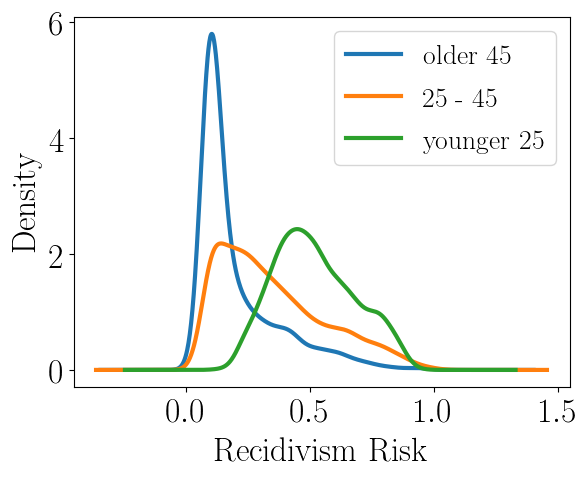
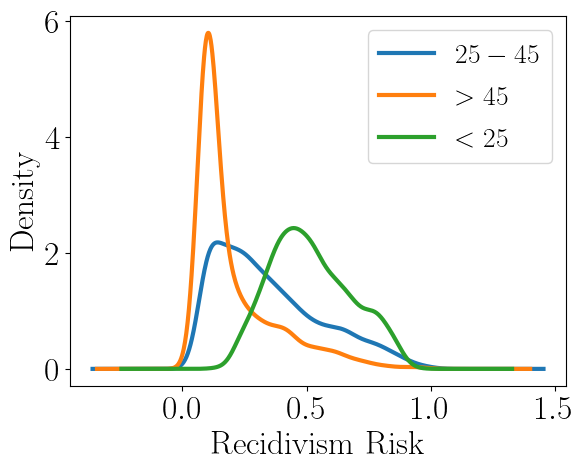
addressed Chato's comments on experiments

diff --git a/paper/06-experiments.tex b/paper/06-experiments.tex
@@ -49,7 +49,7 @@ In this section, we consider several reference datasets for evaluating the multi
 	\label{fig:dataset:compas:race}]
 	{\includegraphics[width=.48\textwidth]{pics/compas_race_kde.png}}\hfill
 	\subfloat
-	[Score distribution by age in the COMPAS dataset \inote{older THAN 45 or $>45$, younger THAN 25 or $<25$}. We see that age is a strong predictor of recidivism risk which suggests that the COMPAS questionnaire injects a bias against younger people into the data. Experiment D2.
+	[Score distribution by age in the COMPAS dataset. We see that age is a strong predictor of recidivism risk which suggests that the COMPAS questionnaire injects a bias against younger people into the data. Experiment D2.
 	\label{fig:dataset:compas:age}]
 	{\includegraphics[width=.48\textwidth]{pics/compas_age_kde.png}}\hfill
 	\subfloat
@@ -63,8 +63,6 @@ In this section, we consider several reference datasets for evaluating the multi
 \end{figure}
 
 \subsection{Datasets}\label{sec:experiments-datasets}
-
-\note[ChaTo]{I'm uncomfortable with using ``quality'' -- throughout the paper, I would refer to this as simply ``score''.}
 
 Table~\ref{tbl:datasets} summarizes the datasets used in our experiments.
 %
@@ -80,7 +78,7 @@ We remark that the choice of protected group is not arbitrary: it is determined 
 %
 Similarly, the minimum proportion can always be provided by regulation or voluntary commitments; in the absence of this minimum proportion one can use the fraction of people who are members of that group within the entire population.
 %
-An experiment consists of generating a \inote{re-?}ranking using multinomial \algoFAIR and then comparing it with baseline rankings according to the metrics introduced in the next section.
+An experiment consists of generating a ranking from the set of candidates using multinomial \algoFAIR and then comparing it with baseline rankings according to the metrics introduced in the next section.
 %
 We use the three publicly-available datasets: COMPAS~\cite{angwin_2016_machine}, German Credit~\cite{lichman_2013_uci}) and LSAC~\cite{wightman1998lsac}.
 
@@ -192,101 +190,114 @@ We show that large increases in average group exposure can be achieved with rela
 
 \subsection{Results}\label{sec:experiments-results}
 %
-\begin{table}[b!]
-	\resizebox{1.02\columnwidth}{!}{%
-		\centering\begin{tabular}{lccccc}\toprule
-				   & Exposure &   total    & Ordering     & Rank & Selection \\
-			Method & gain per group & NDCG loss  & utility loss & drop & utility loss \\
-
-			\midrule
-			\multicolumn{6}{c}{D1 -- COMPAS, k=1500, race (1 prot.)} \\
-			\midrule
-			\algoFAIR $p_{\text{eq}}$ & $[-0.27, 0.27]$ & $1.915\cdot10^{-7}$ & $[0.0066, 0]$ & $[15, 0]$ & $[0, 0]$ \\
-			\algoFAIR $p_{\text{stat}}$ & $[-19.16, 19.16]$ & 0.0039 & $[0.0687, 0]$ & $[387, 0]$ & $[0.0621,0]$ \\
-			\citeauthor{zehlike2020matching} & $[-28.6, 28.6]$  & 0.0055 & $[0.0738, 0]$ & $[620, 288]$ & $[0.0702, 0]$ \\
-
-			\midrule
-			\multicolumn{6}{c}{D2 -- COMPAS, k=500, age (2 prot.)} \\
-			\midrule
-			\algoFAIR $p_{\text{eq}}$ & $[-13.77, -7.10, \textcolor{red}{20.87}]$ & 0.0580 & $[0.23, 0,23, 0.00]$ & $[182, 127, 0]$ & $[0.23, 0.23, 0.00]$ \\
-			\algoFAIR $p_{\text{stat}}$ & $[-20.86, 6.75, \textcolor{red}{14.11}]$ & 0.0354 & $[0.21, 0.21, 0.00]$ & $[266, 3, 0]$ & $[0.21, 0.21, 0.00]$ \\
-			\citeauthor{zehlike2020matching} & $[-38.48, 18.11, \textcolor{red}{20.49}]$ & 0.0521 & $[0.19, 0.18 ,0.00]$ & $[159, 280, 0]$ & $[0.19, 0.17, 0,00]$ \\ %\cline{2-7}
-
-			\midrule
-			\multicolumn{6}{c}{D3 -- COMPAS, k=200, three worst off (3 prot.)} \\
-			\midrule
-			\algoFAIR  $p_{\text{eq}}$ & $[-21.87, \textcolor{red}{7.29}, \textcolor{red}{7.30}, \textcolor{red}{7.27}]$ & 0.1526 & $[0.42, 0.14, 0.00, 0.22]$ & $[134, 0, 0, 0]$ & $[0.42, 0.13, 0.00, 0.22]$ \\
-			\algoFAIR  $p_{\text{stat}}$ & $[-3.62, \textcolor{red}{0.60}, \textcolor{red}{0.29}, \textcolor{red}{2.73}]$ & 0.0155 & $[0.17, 0.03,0.00, 0.02]$ & $[24, 0,0,0]$ & $[0.17, 0.00,0.00, 0.02] $  \\
-			\citeauthor{zehlike2020matching} &  $[-11.83, \pm 0, \pm 0, \textcolor{red}{11.83}]$ & 0.0562 & $[0.19, \pm 0, \pm 0, 0.00] $ & $[178, \pm 0, \pm 0, 0]$ & $[0.19, \pm 0, \pm 0, 0.00]$   \\
-
-			\midrule
-			\multicolumn{6}{c}{D4 -- German credit, k=50, sex \& age (5 prot.)} \\
-			\midrule
-			\algoFAIR $p_{\text{eq}}$ &  $[-4.46, 0.08, 0.50, $ & 0.1698 & $[3.51, 2.70, 3.42, $ & $[28, 4, 7, 1, 0, 0]$ & $[3.05, 1.82, 1.34, $\\
-			& $1.49, 1.26, 1.12]$ & &  $ 0.55, 1.18, 1.76]$& & $0.00, 0.18, 0.33]$  \\
-			\algoFAIR $p_{\text{stat}}$ &  $[-0.83, 0.01, 0.23, $& 0.0185 & $[1.84, 1.56, 0.45, $ & $[5, 3, 1, 0, 0, 5]$ & $[1.89, 1.56, 1.23,$  \\
-			& $0.38, 0.20, 0.01]$  & & $0.00, 0.33, 1.28]$ & & $ 0.00, 1.18, 1.54]$\\
-			\citeauthor{zehlike2020matching} &  $[1.15, 0.22, -0.91, $ & 0.0471 & $[0.50, 1.41, 2.06,$ & $[2, 2, 31, 22, 0, 0]$ & $[0.34, 0.00, 1.93, $ \\
-			& $-0.71, 0.00, 0.25]$ &  & $ 1.75, 0.27, 0.00]$ & & $2.20, 0.00, 0.00]$\\
-
-			\midrule
-			\multicolumn{6}{c}{D5 -- LSAT, k=200, sex \& race (3 prot.)} \\
-			\midrule
-			\algoFAIR $p_{\text{eq}}$ & $[-15.76, -1.48, 8.41, 8.82]$ & 0.0157 & $[4,4,1,0]$ & $[145, 28, 0, 0]$ & $[4, 4, 1, 0`]$  \\
-			\algoFAIR $p_{\text{stat}}$ & $[-11.12, 3.87, 2.80, 4,44]$ & 0.0026 & $[2, 2, 1, 0]$ & $[100, 15, 0, 0]$ & $[2, 2, 1, 0]$  \\
-			\citeauthor{zehlike2020matching} &  $[-14.63, 4.29, 3.88, 6.46]$ & 0.0049 & $[2, 1, 1, 0]$ & $[149, 26, 0, 0]$ & $[2, 1, 0, 0]$  \\
-
-			\bottomrule
-		\end{tabular}
-	}
-	\caption{Experimental results, expressed in terms of changes of exposure and utility with respect to colorblind results.
+\begin{table}[t!]
+	\caption{Experimental results, showing changes in the average group exposure and ranking utility in terms of NDCG. 
 		%
 		%Colorblind results are not shown because they are always zero.
 		%
-		All measures are presented per group except for the loss of NDCG which is calculated for the entire ranking.
+		Exposure is presented per group while the loss of NDCG is calculated for the entire ranking.
+		%
+		The protected groups are in the same order as in Table~\ref{tbl:datasets}.
+		%
+		%With $p_{\text{stat}}$ we denote a vector $p_G$ that contains the share of a group as its $p$-value, hence the produced ranking should obtain statistical parity.
+		%
+		%With $p_{\text{equal}}$ we denote a vector $p_G$ that contains the same value for all $p$.
+		%
+		For exposure gain we report numbers with an asterisk, if a group was not among the top-$k$ in the colorblind ranking, but is now.
+		%
+		These numbers constitute the \emph{absolute} exposure value a group receives after re-ranking.
+		%
+		We write $\pm 0$, if the group appears neither in the colorblind, nor in the fairly re-ranked top-$k$.
+		\label{tbl:results-part-one}
+	}
+	\vspace{-5mm}
+	\centering\begin{tabular}{llccc}\toprule
+   					&			& Exposure gain 	& Exposure gain		&   total   \\
+		Experiment	& Method 	& per prot. group 	& non-prot. group 	& NDCG loss  \\
+
+		\midrule
+		D1 -- COMPAS,	& \algoFAIR $p_{\text{eq}}$ 	& 0.27 	& -0.27 	& $1.915\cdot10^{-7}$ \\
+		k=1500, 		& \algoFAIR $p_{\text{stat}}$	& 19.16 & -19.16 	& 0.0039 \\
+		race (1 prot.)	& CFA$\theta$ 					& 28.60 & -28.60	& 0.0055 \\
+
+		\midrule
+		D2 -- COMPAS, 	& \algoFAIR $p_{\text{eq}}$ 	& $[-7.10, 20.87^*]$ 	& -13.77 	& 0.0580 \\
+		k=500, 			& \algoFAIR $p_{\text{stat}}$ 	& $[6.75, 14.11^*]$ 	& -20.86 	& 0.0354 \\
+		age (2 prot.)	& CFA$\theta$ 					& $[18.11, 20.49^*]$ 	& -38.48	& 0.0521 \\ %\cline{2-7}
+
+		\midrule
+		D3 -- COMPAS, 			& \algoFAIR  $p_{\text{eq}}$ 	& $[7.29^*, 7.30^*, 7.27^*]$ & -21.87	& 0.1526 \\
+		k=200, 					& \algoFAIR  $p_{\text{stat}}$ 	& $[0.60^*, 0.29^*, 2.73^*]$ & -3.62	& 0.0155 \\
+		3 worst off (3 prot.) 	& CFA$\theta$ 					& $[\pm 0, \pm 0, 11.83^*]$	 & -11.83	& 0.0562 \\
+
+		\midrule
+		D4 -- German credit, 	& \algoFAIR $p_{\text{eq}}$ 	&  $[0.08, 0.50, 1.49, 1.26, 1.12]$ 	& -4.46 	& 0.1698 \\
+		k=50,  					& \algoFAIR $p_{\text{stat}}$ 	&  $[0.01, 0.23, 0.38, 0.20, 0.01]$		& -0.83 	& 0.0185 \\
+		age (5 prot.) 			& CFA$\theta$ 					&  $[0.22, -0.91, -0.71, 0.00, 0.25]$ 	& 1.15 		& 0.0471 \\
+
+		\midrule
+		D5 -- LSAT, 			& \algoFAIR $p_{\text{eq}}$ 	& $[-1.48, 8.41, 8.82]$ & -15.76 & 0.0157 \\
+		k=200, 					& \algoFAIR $p_{\text{stat}}$ 	& $[3.87, 2.80, 4,44]$ 	& -11.12 & 0.0026 \\
+		sex \& race (3 prot.) 	& CFA$\theta$ 					& $[4.29, 3.88, 6.46]$ 	& -14.63 & 0.0049 \\
+
+		\bottomrule
+	\end{tabular}
+	\vspace{-5mm}
+\end{table}
+%
+\begin{table}[t!]
+	\caption{Experimental results, changes of individual utility loss respect to colorblind results.
+		%
+		%Colorblind results are not shown because they are always zero.
+		%
+		All measures are presented per group.
 		%
 		Groups are in the same order as in Table~\ref{tbl:datasets}, and the first value is always for the non-protected group.
 		%
-		With $p_{\text{stat}}$ we denote a vector $p_G$ that contains the share of a group as its $p$-value, hence the produced ranking should obtain statistical parity.
+		%With $p_{\text{stat}}$ we denote a vector $p_G$ that contains the share of a group as its $p$-value, hence the produced ranking should obtain statistical parity.
 		%
-		With $p_{\text{equal}}$ we denote a vector $p_G$ that contains the same value for all $p$.
+		%With $p_{\text{equal}}$ we denote a vector $p_G$ that contains the same value for all $p$.
 		%
-		For exposure gain we report numbers in red, if a group was not among the top-$k$ in the colorblind ranking, but is now.
-		%
-		These numbers constitute the absolute exposure value a group receives after re-ranking.
-		%
-		We write $\pm 0$, if the group appears neither in the colorblind, nor in the fairly re-ranked top-$k$.
-		%
-		We observe that \algoFAIR $p_{\text{stat}}$ and the baseline CFA$\theta$ have comparable results for experiments D1 and D5.
-		%
-		However, we also see that CFA$\theta$ seems to not handle ties well in experiments D2 and D3 (see textual explanation for details).
-		%
-		For experiment D4 we see an interesting property of \algoFAIR: the youngest and oldest males experience a high rank drop (31 and 22) with CFA$\theta$ compared to \algoFAIR $p_{\text{stat}}$, even though they belong to the protected groups.
-		%
-		This is because they receive exposure values higher than average in the $cb|_k$, i.e. these two groups have the best scores.
-		%
-		CFA$\theta$ moves \emph{all} score distributions towards the barycenter and thus, removes the advantage that the protected groups have in this data set.
-		%
-		\algoFAIR, in contrast, ranks candidates based on their scores, as soon as the ranked group fairness conditions are met for each group.
-		%
-		As such, a protected group can only lose exposure for another protected group, but never for the non-protected one.
+		We write $\pm 0$, if the group appears neither in the colorblind, nor in the re-ranked top-$k$.
 	}
-	\vspace{-3mm}
-	\label{tbl:results}
+	\vspace{-4mm}
+	\label{tbl:results-part-two}
+	\resizebox{1.01\columnwidth}{!}{%
+	\centering\begin{tabular}{llccc}\toprule
+					& 			& Ordering     & Rank & Selection \\
+		Experiment 	& Method 	& utility loss & drop & utility loss \\
+		
+		\midrule
+		D1 -- COMPAS,	& \algoFAIR $p_{\text{eq}}$ 	& $[0.0066, 0]$ & $[15, 0]$ 	& $[0, 0]$ \\
+		k=1500, 		& \algoFAIR $p_{\text{stat}}$ 	& $[0.0687, 0]$ & $[387, 0]$ 	& $[0.0621,0]$ \\
+		race (1 prot.)	& CFA$\theta$ 					& $[0.0738, 0]$ & $[620, 288]$ 	& $[0.0702, 0]$ \\
+		
+		\midrule
+		D2 -- COMPAS, 	& \algoFAIR $p_{\text{eq}}$ 	& $[0.23, 0,23, 0.00]$ & $[182, 127, 0]$ 	& $[0.23, 0.23, 0.00]$ \\
+		k=500, 			& \algoFAIR $p_{\text{stat}}$ 	& $[0.21, 0.21, 0.00]$ & $[266, 3, 0]$ 		& $[0.21, 0.21, 0.00]$ \\
+		age (2 prot.)	& CFA$\theta$ 					& $[0.19, 0.18 ,0.00]$ & $[159, 280, 0]$ 	& $[0.19, 0.17, 0,00]$ \\ %\cline{2-7}
+		
+		\midrule
+		D3 -- COMPAS, 			& \algoFAIR  $p_{\text{eq}}$ 	& $[0.42, 0.14, 0.00, 0.22]$ 	& $[134, 0, 0, 0]$ 		& $[0.42, 0.13, 0.00, 0.22]$ \\
+		k=200, 					& \algoFAIR  $p_{\text{stat}}$ 	& $[0.17, 0.03,0.00, 0.02]$ 	& $[24, 0,0,0]$ 				& $[0.17, 0.00,0.00, 0.02] $  \\
+		3 worst off (3 prot.) 	& CFA$\theta$ 					& $[0.19, \pm 0, \pm 0, 0.00] $ & $[178, \pm 0, \pm 0, 0]$ 	& $[0.19, \pm 0, \pm 0, 0.00]$   \\
+		
+		\midrule
+		D4 -- German credit, 	& \algoFAIR $p_{\text{eq}}$ 	&  $[3.51, 2.70, 3.42, 0.55, 1.18, 1.76]$ 	& $[28, 4, 7, 1, 0, 0]$ 	& $[3.05, 1.82, 1.34, 0.00, 0.18, 0.33]$ \\
+		k=50,  					& \algoFAIR $p_{\text{stat}}$ & $[1.84, 1.56, 0.45, 0.00, 0.33, 1.28]$ & $[5, 3, 1, 0, 0, 5]$ & $[1.89, 1.56, 1.23, 0.00, 1.18, 1.54]$  \\
+		age (5 prot.) 			& CFA$\theta$ &  $[0.50, 1.41, 2.06, 1.75, 0.27, 0.00]$ & $[2, 2, 31, 22, 0, 0]$ & $[0.34, 0.00, 1.93, 2.20, 0.00, 0.00]$ \\
+		
+		\midrule
+		D5 -- LSAT, 			& \algoFAIR $p_{\text{eq}}$ 	& $[4,4,1,0]$ 		& $[145, 28, 0, 0]$ & $[4, 4, 1, 0`]$  \\
+		k=200, 					& \algoFAIR $p_{\text{stat}}$ 	& $[2, 2, 1, 0]$ 	& $[100, 15, 0, 0]$ & $[2, 2, 1, 0]$  \\
+		sex \& race (3 prot.) 	& CFA$\theta$ 					& $[2, 1, 1, 0]$ 	& $[149, 26, 0, 0]$ & $[2, 1, 0, 0]$  \\
+		
+		\bottomrule
+	\end{tabular}
+	}
+	\vspace{-5mm}
 \end{table}
-%
-Table~\ref{tbl:results} summarizes the results.
-\note[ChaTo]{I would use ``CFA$\theta$'' instead of Zehlike et al. in the table.
-
-Exposure gain per group: I would split into two columns. First, ``Exposure change (non-protected group)'', ``Exposure change (protected groups)''
-
-Red color seems to indicate something is wrong while the opposite is true,  perhaps you can underline those values or add an asterisk to them (something you can see in black and white).
-
-The discussion about the table is split between the caption of the table and the main text. I think the caption of the table should be just to explain what each column is. The commentary and observations should appear in the main text.
-
-As an idea, perhaps the table could be separated in two parts: first a table only with method, exposure change, NDCG change; then another table with method, ordering utility, rank drop, selection utility. The discussion following these two tables could be more easy to follow, perhaps.
-
-}
+Table~\ref{tbl:results-part-one} and~\ref{tbl:results-part-two} summarize the results.
 %
 We report on the result for \algoFAIR using $p_G$ in two different settings, namely as a statistical parity vector i.e. the $p$-values for each group correspond to their respective proportions in the dataset ($p_{\text{stat}}$), and as a vector with all $p$-values being equal ($p_{\text{eq}}$).
 %
@@ -306,11 +317,11 @@ While the former yields better numbers in terms of utility, with the latter the 
 
 Nonetheless, we found a very important drawback in the results of CFA$\theta$ in experiment D2: \citet{zehlike2020matching} does not guarantee in-group monotonicity, which we observed in our experiments.
 %
-Consider, for example, experiment D2, where we observe a maximum rank drop for the non-protected group of 159 for CFA$\theta$, which at first glance is less than \algoFAIR with $p_{\text{stat}}$ (266).
+Consider Table~\ref{tbl:results-part-two} where we observe a maximum rank drop for the non-protected group of 159 for CFA$\theta$, which at first glance is less than \algoFAIR with $p_{\text{stat}}$ (266).
 %
 However, we found the following problems when closely investigating the result: the candidate that experienced the drop in 159 ranks was the \emph{only non-protected} candidate left in the top-500 after applying CFA$\theta$, and their original ranking position was 341 (now 500).
 %
-It means that the originally best candidate from the non-protected group (rank 3 in $cb|_k$) was ranked out of the top-500 by CFA$\theta$, hence the in-group ordering is not preserved.
+This means that the originally best candidate from the non-protected group (rank 3 in $cb|_k$) was ranked out of the top-500 by CFA$\theta$, hence the in-group ordering is not preserved.
 %
 We suspect that this is because the method can not handle ties well.
 %
@@ -346,14 +357,25 @@ CFA$\theta$ moves \emph{all} score distributions towards the barycenter and thus
 %
 As such, a protected group can only lose exposure for another protected group, but never for the non-protected one.
 
-Importantly, \algoFAIR allows to create rankings for user-defined values of $p$ and in particular for values beyond statistical parity, something that cannot be done directly with the baseline (\citet{zehlike2020matching} allows at maximum statistical parity in the result ranking when setting $\theta=1$, i.e. to the maximum value).
-
-\note[ChaTo]{This part perhaps requires a subsection header or a preamble indicating why you want to introduce this new figure.
-
-Again, perhaps in the caption of Figure~\ref{fig:results-moving-p} given that the caption is long, I would move the discussion/commentary on the results to the main text, and leave in the caption just the indication of what the number mean.}
-Figure~\ref{fig:results-moving-p} shows results when varying $p_1$ and $p_2$ in data set D2 (COMPAS, the protected groups are people of age 25--45 ($p_1$) and people under 25 years ($p_2$).
+\spara{A wide range of possibilities to set $p_G$.}
 %
-This means that \algoFAIR allows a wide range of positive actions, for instance, granting reintegration programs to people with promising COMPAS ratings, with a preference towards younger offenders.
+An important advantage of \algoFAIR is, that it allows to create rankings for user-defined values of $p$ and in particular for values beyond statistical parity, something that cannot be done directly with the baseline (\citet{zehlike2020matching} allows at maximum statistical parity in the result ranking when setting $\theta=1$, i.e. to the maximum value).
+
+Figure~\ref{fig:results-moving-p} shows results when varying $p_1$ and $p_2$ in data set D2: COMPAS, the protected groups are people of age 25--45 ($p_1$) and people under 25 years ($p_2$).
+%
+In Fig.~\ref{fig:experiments:compasAge:expGain:groupNP} we see that the non-protected group loses exposure under all settings, as expected.
+%
+At the same time however NDCG loss is minor and under many settings not increasing beyond a statistical significance level of 0.05\% (Fig.~\ref{fig:experiments:compasAge:ndcgloss}).
+%
+Comparing Figures~\ref{fig:experiments:compasAge:expGain:group1} and~\ref{fig:experiments:compasAge:expGain:group2} we see that in general, if one protected group scores significantly better in the colorblind ranking (group ``25 -- 45'' in Fig.~\ref{fig:dataset:compas:age}) than another one (group ``younger 25'' in Fig.~\ref{fig:dataset:compas:age}), the first may be ranked down to make room for the second.
+%
+Figure~\ref{fig:experiments:compasAge:expGain:group1} shows that the middle-aged group in the COMPAS data set loses exposure to the young group unless $p_1$ is set high enough.
+%
+However even if $p_1$ is set low it still ensures that candidates from the middle-aged group show in the ranking, thus always losing less exposure than the non-protected group (compare Fig.~\ref{fig:experiments:compasAge:expGain:groupNP} and~\ref{fig:experiments:compasAge:expGain:group1}).
+%
+Note that this experiment is an extreme case, where no candidates from group ``age < 25'' where ranked in the top-200 in $cb|_k$, which explains why this group never loses exposure under any setting for $p_1$ and $p_2$ (see Fig.~\ref{fig:experiments:compasAge:expGain:group2}).
+
+This experiment shows that \algoFAIR allows a wide range of positive actions, for instance, granting reintegration programs to people with promising COMPAS ratings, with a preference towards younger offenders.
 %
 In this case, the Figure~\ref{fig:experiments:compasAge:ndcgloss} shows that we can double the proportion of young people in the top-$k$ ranking (e.g. from 0\% in the original up to 40\% in the fair ranking) without introducing a large drop for the other protected group loss: in the colorblind ranking they received exposure equivalent to $0.4 > p_1 > 0.5$, so setting $p_1 = p_2 = 0.4$ only causes an exposure drop of 5.8\%.
 %
@@ -371,18 +393,6 @@ At the same time the NDCG loss is just 5.6\% and never exceeds 15\%, even when f
 		$p_1$ relates to group ``age 25 -- 45'', $p_2$ relates to group ``age < 25''.
 		%
 		Blue fields in Fig.~\ref{fig:experiments:compasAge:expGain:groupNP} -- \ref{fig:experiments:compasAge:expGain:group2} indicate that this group lost exposure w.r.t. the colorblind ranking, red fields indicate exposure gain.
-		%
-		In Fig.~\ref{fig:experiments:compasAge:expGain:groupNP} we see that the non-protected group loses exposure under all settings, as expected.
-		%
-		At the same time however NDCG loss is minor and under many settings not reaching beyond a statistical significance level of 0.05\% (Fig.~\ref{fig:experiments:compasAge:ndcgloss}).
-		%
-		Comparing Figures~\ref{fig:experiments:compasAge:expGain:group1} and~\ref{fig:experiments:compasAge:expGain:group2} we see that in general, if one protected group scores significantly better in the colorblind ranking (group ``25 -- 45'' in Fig.~\ref{fig:dataset:compas:age}) than another one (group ``younger 25'' in Fig.~\ref{fig:dataset:compas:age}), the first may be ranked down to make room for the second.
-		%
-		Figure~\ref{fig:experiments:compasAge:expGain:group1} shows that the middle-aged group in the COMPAS data set loses exposure to the young group unless $p_1$ is set high enough.
-		%
-		However even if $p_1$ is set low it still ensures that candidates from the middle-aged group show in the ranking, thus always losing less exposure than the non-protected group (compare Fig.~\ref{fig:experiments:compasAge:expGain:groupNP} and~\ref{fig:experiments:compasAge:expGain:group1}).
-		%
-		Note that this experiment is an extreme case, where no candidates from group ``age < 25'' where ranked in the top-200 in $cb|_k$, which explains why this group never loses exposure under any setting for $p_1$ and $p_2$ (see Fig.~\ref{fig:experiments:compasAge:expGain:group2}).
 	}
 	\vspace{-\baselineskip}
 	\label{fig:results-moving-p}

diff --git a/experiments/dataExperiments/src/visualize.py b/experiments/dataExperiments/src/visualize.py
@@ -32,9 +32,9 @@ def visualizeOrigCompasData():
     data = pd.read_csv("../data/COMPAS/compas_age_java.csv", header=0, skipinitialspace=True)
     # invert scores for plots
     data["score"] = 1 - data["score"]
-    labels = {"0": "older 45",
-              "2": "younger 25",
-              "1": "25 - 45"}
+    labels = {"0": "$> 45$",
+              "2": "$< 25$",
+              "1": "$25 - 45$"}
     plotKDEPerGroup(data, "Recidivism Risk", "../data/COMPAS/compas_age_kde.png", colNames=labels)
 
     data = pd.read_csv("../data/COMPAS/compas_worstThreeGroups_java.csv", header=0, skipinitialspace=True)
@@ -347,7 +347,7 @@ def annotate_heatmap(im, data=None, valfmt="{x:.2f}",
 
 
 def main():
-#     visualizeOrigCompasData()
+    visualizeOrigCompasData()
 #     visualizeOrigGermanCreditData()
 #     visualizeOrigLSATData()
 
